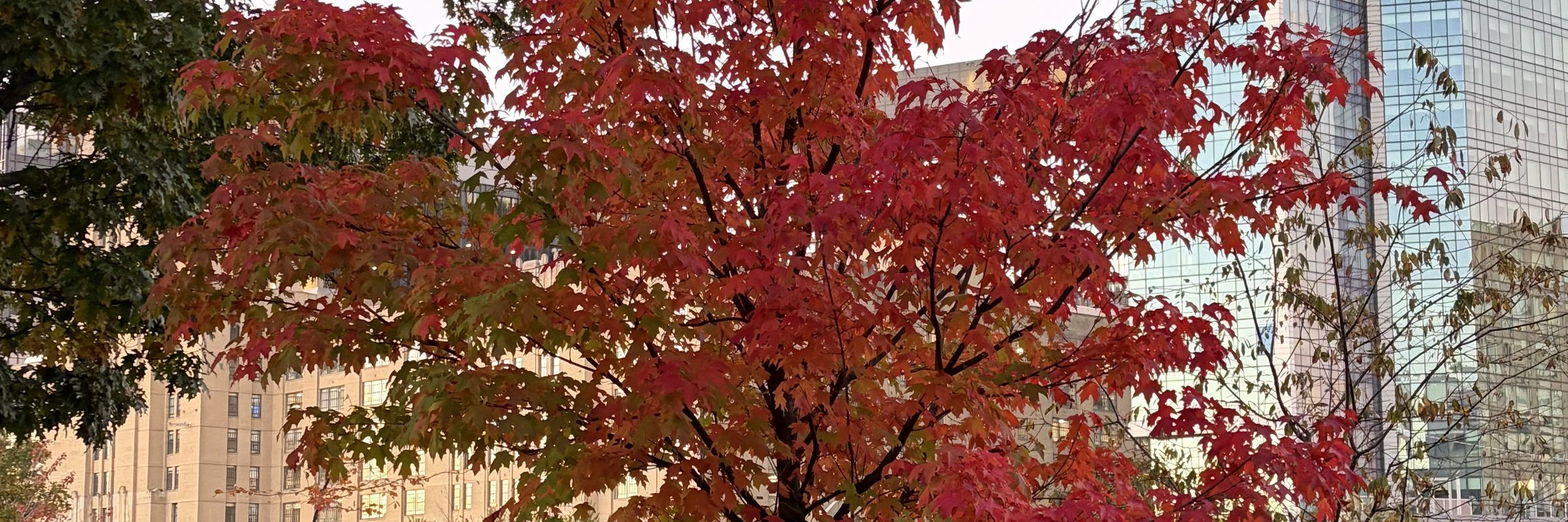
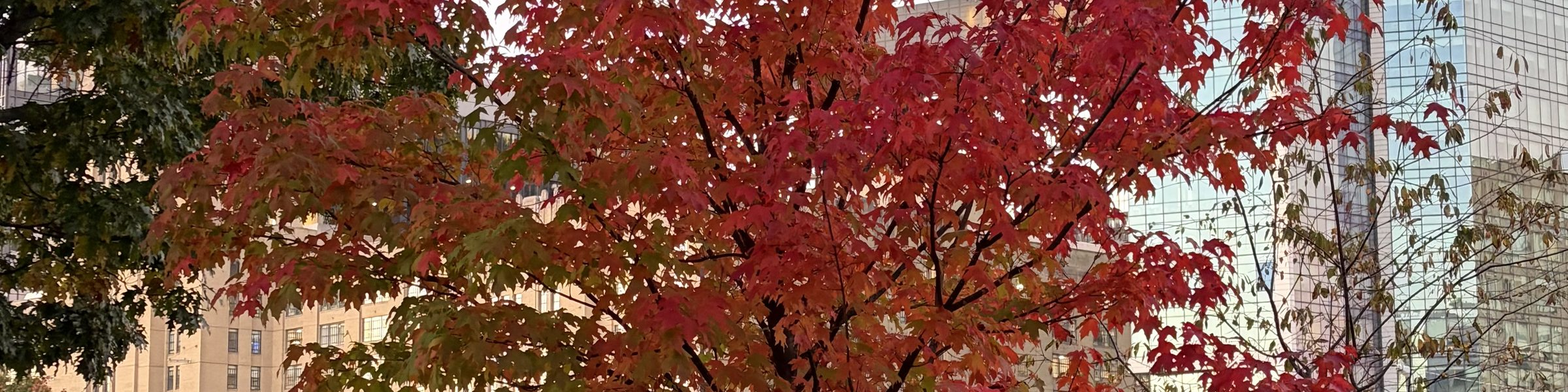
Make header image shorter (4:1)

diff --git a/assets/css/style.css b/assets/css/style.css
@@ -65,4 +65,4 @@ body.wide .wrap { max-width: 1100px; }
 .site-footer { border-top: 1px solid var(--rule); margin-top: 60px; padding: 20px 0; color: var(--muted); font-family: system-ui, sans-serif; font-size: 0.85rem; }
 .site-footer .wrap { display: flex; justify-content: space-between; flex-wrap: wrap; gap: 10px; }
 .nowrap { white-space: nowrap; }
-.header-img { display: block; width: 100%; aspect-ratio: 3 / 1; object-fit: cover; border-radius: 8px; margin-bottom: 40px; }
+.header-img { display: block; width: 100%; aspect-ratio: 4 / 1; object-fit: cover; border-radius: 8px; margin-bottom: 40px; }
